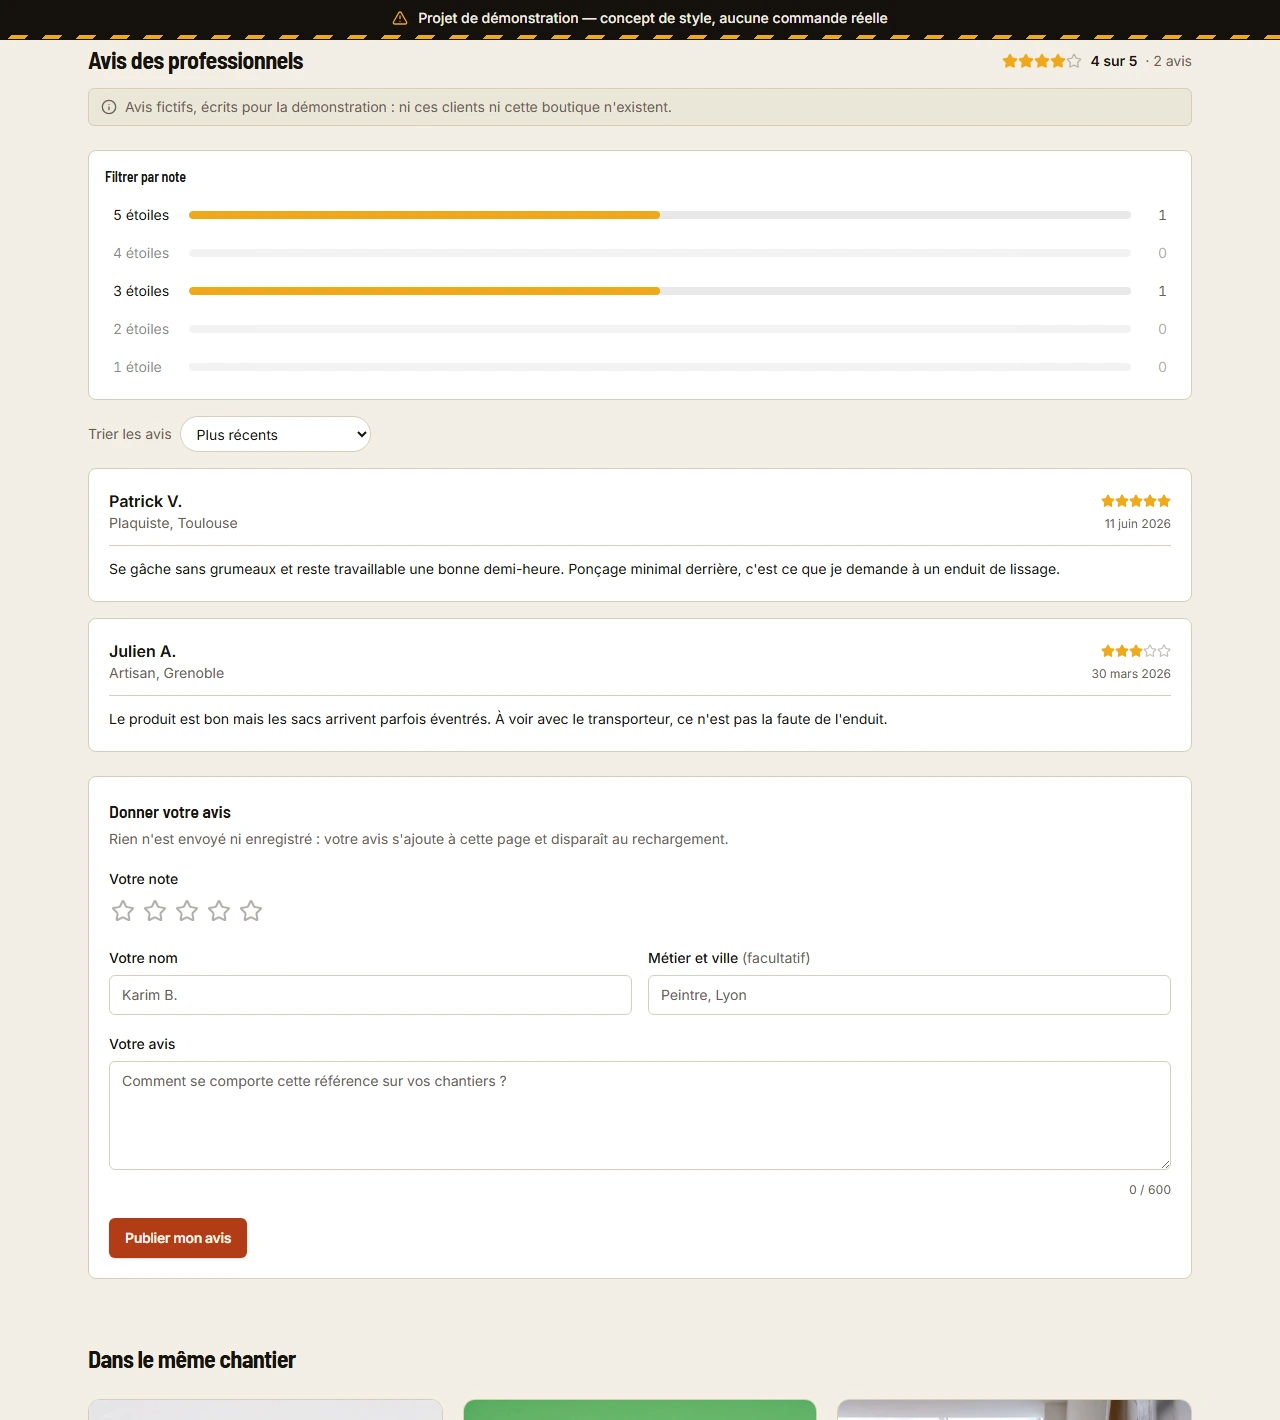
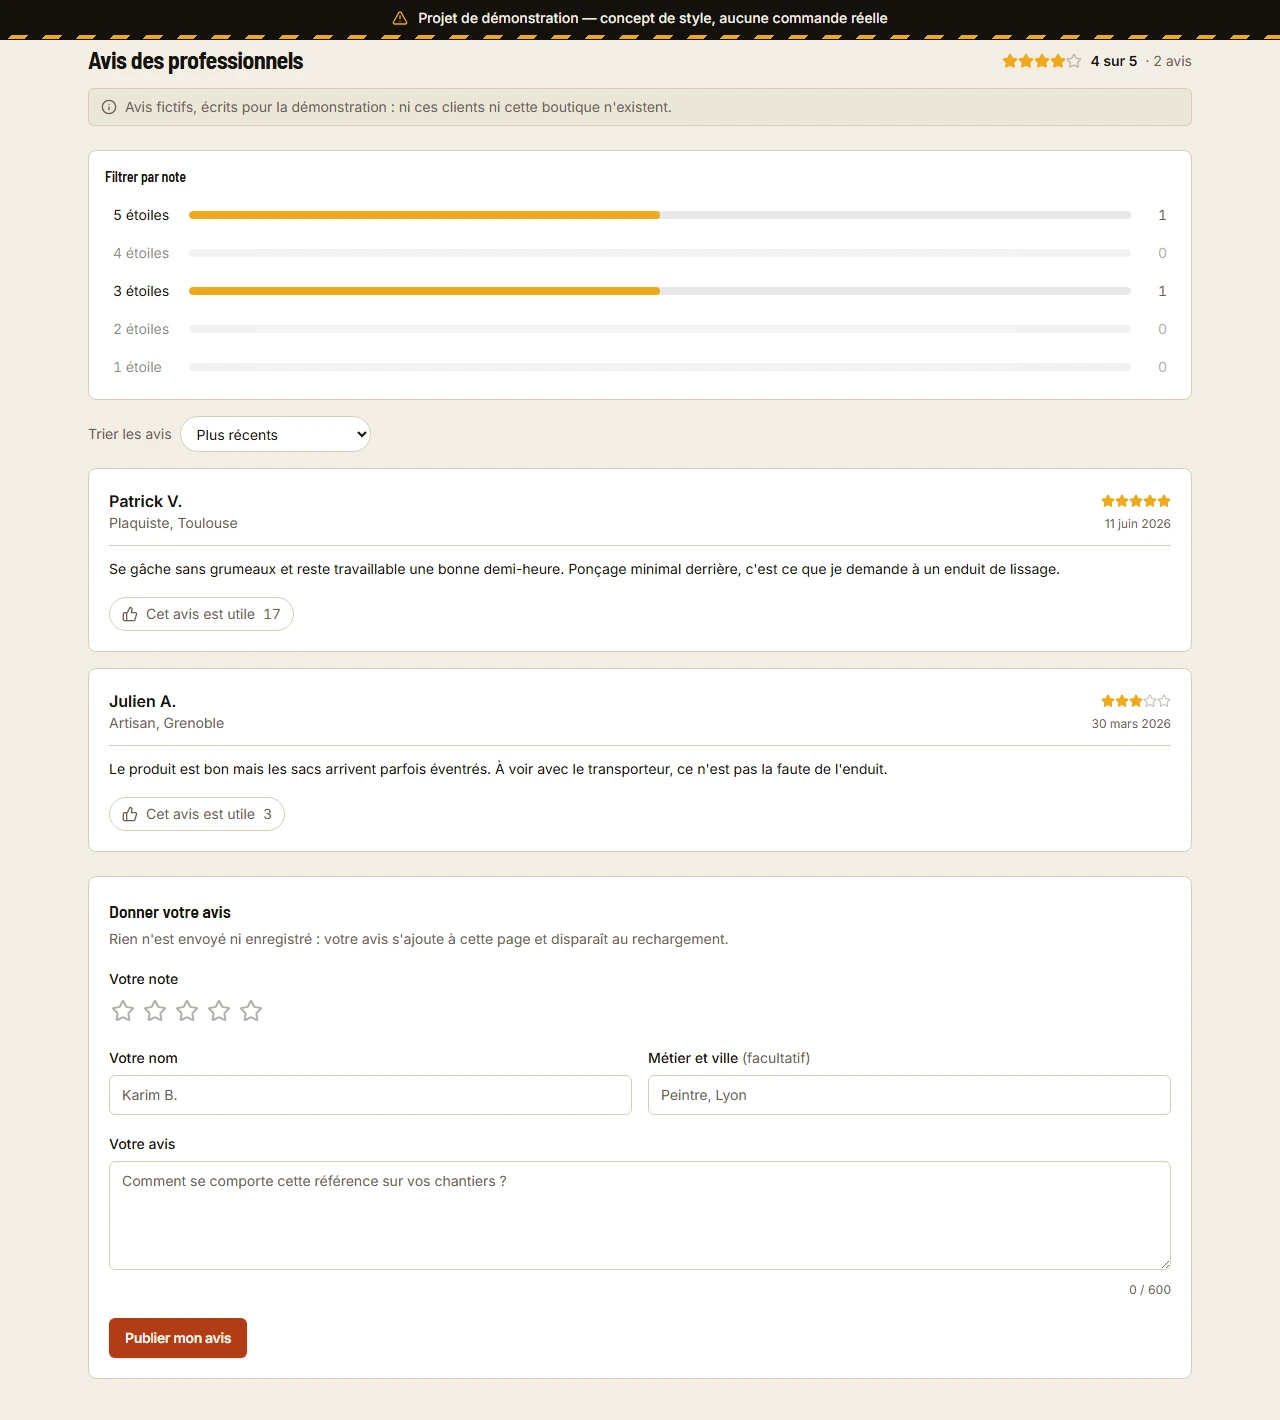
Ajoute un bouton d'utilité sur chaque avis
Chaque avis porte un « Cet avis est utile » avec son compteur. Le vote bascule
au second clic et incrémente le compteur affiché, en signalant « Compté
seulement ici » : rien n'est envoyé, comme le reste de la maquette. Les
compteurs de départ font partie des données fictives ; un avis déposé depuis la
page démarre à zéro.

L'état des votes est un Set d'identifiants dans la section, au même titre que
le tri et le filtre : local, non partagé, remis à zéro d'une fiche à l'autre.

Vérifié : compteur incrémenté puis rendu à sa valeur d'origine à l'annulation,
aria-pressed suivant l'état, et avis déposé démarrant bien à zéro.

diff --git a/src/data/avis.ts b/src/data/avis.ts
@@ -14,6 +14,8 @@ export type Avis = {
   /** Format ISO, affiché en toutes lettres. */
   date: string
   texte: string
+  /** Nombre de personnes ayant trouvé l'avis utile. Fictif lui aussi. */
+  utiles: number
   /** Déposé depuis la page, jamais enregistré : signalé comme tel à l'écran. */
   local?: boolean
 }
@@ -28,6 +30,7 @@ export const avis: Avis[] = [
     date: "2026-07-14",
     texte:
       "La fibre courte tient bien la laque, pas de peluche sur les portes. J'en prends dix à chaque commande, à ce prix-là je ne les lave même plus entre deux chantiers.",
+    utiles: 14,
   },
   {
     id: "av-2",
@@ -38,6 +41,7 @@ export const avis: Avis[] = [
     date: "2026-06-28",
     texte:
       "Bon rendu sur boiseries, rien à dire. Le manche plie un peu quand on appuie fort sur un plafond, mais pour du laquage c'est parfait.",
+    utiles: 6,
   },
   {
     id: "av-3",
@@ -48,6 +52,7 @@ export const avis: Avis[] = [
     date: "2026-05-09",
     texte:
       "Commandé par cinquante pour l'équipe. Qualité constante d'un lot à l'autre, ce qui n'est pas le cas partout.",
+    utiles: 9,
   },
   {
     id: "av-4",
@@ -58,6 +63,7 @@ export const avis: Avis[] = [
     date: "2026-07-02",
     texte:
       "Soie bien garnie, la coupe reste nette après une dizaine de chantiers. Il perd deux ou trois poils les premiers jours, ensuite plus rien.",
+    utiles: 11,
   },
   {
     id: "av-5",
@@ -68,6 +74,7 @@ export const avis: Avis[] = [
     date: "2026-04-21",
     texte:
       "Parfait pour les angles et les plinthes. Se nettoie facilement à l'eau tant qu'on ne le laisse pas sécher.",
+    utiles: 4,
   },
   {
     id: "av-6",
@@ -78,6 +85,7 @@ export const avis: Avis[] = [
     date: "2026-06-11",
     texte:
       "Se gâche sans grumeaux et reste travaillable une bonne demi-heure. Ponçage minimal derrière, c'est ce que je demande à un enduit de lissage.",
+    utiles: 17,
   },
   {
     id: "av-7",
@@ -88,6 +96,7 @@ export const avis: Avis[] = [
     date: "2026-03-30",
     texte:
       "Le produit est bon mais les sacs arrivent parfois éventrés. À voir avec le transporteur, ce n'est pas la faute de l'enduit.",
+    utiles: 3,
   },
   {
     id: "av-8",
@@ -98,6 +107,7 @@ export const avis: Avis[] = [
     date: "2026-07-19",
     texte:
       "Arêtes franches sur laque comme sur mat, et il se retire sans arracher, même après deux jours en place. Je ne reviens pas au ruban de grande surface.",
+    utiles: 21,
   },
   {
     id: "av-9",
@@ -108,6 +118,7 @@ export const avis: Avis[] = [
     date: "2026-05-25",
     texte:
       "Bonne tenue sur support propre. Sur crépi il faut appuyer davantage, mais c'est vrai de tous les rubans.",
+    utiles: 5,
   },
 ]
 

diff --git a/src/components/sections/AvisClients.tsx b/src/components/sections/AvisClients.tsx
@@ -1,5 +1,5 @@
 import * as React from "react"
-import { Info, MessageSquareOff } from "lucide-react"
+import { Info, MessageSquareOff, ThumbsUp } from "lucide-react"
 
 import { Etoiles } from "@/components/Etoiles"
 import { Separator } from "@/components/ui/separator"
@@ -50,6 +50,16 @@ export function AvisClients({
   const [tri, setTri] = React.useState<TriAvis>("recent")
   /** Note sélectionnée dans l'histogramme, `null` quand tout est affiché. */
   const [filtreNote, setFiltreNote] = React.useState<number | null>(null)
+  /** Avis que le visiteur a marqués utiles. Rien n'est envoyé, comme le reste. */
+  const [votes, setVotes] = React.useState<ReadonlySet<string>>(new Set())
+
+  function basculerVote(id: string) {
+    setVotes((actuels) => {
+      const suivants = new Set(actuels)
+      if (!suivants.delete(id)) suivants.add(id)
+      return suivants
+    })
+  }
 
   // De 5 à 1 : c'est l'ordre attendu d'un histogramme d'avis.
   const distribution = [5, 4, 3, 2, 1].map((note) => ({
@@ -207,6 +217,37 @@ export function AvisClients({
               </div>
               <Separator className="my-3" />
               <p className="text-sm leading-relaxed">{avis.texte}</p>
+
+              <div className="mt-4 flex items-center gap-3">
+                <button
+                  type="button"
+                  onClick={() => basculerVote(avis.id)}
+                  aria-pressed={votes.has(avis.id)}
+                  className={cn(
+                    "inline-flex items-center gap-2 rounded-full border px-3 py-1.5 text-sm transition-colors focus-visible:outline-none focus-visible:ring-2 focus-visible:ring-ring focus-visible:ring-offset-2 focus-visible:ring-offset-card",
+                    votes.has(avis.id)
+                      ? "border-primary bg-primary/10 text-primary"
+                      : "border-border text-muted-foreground hover:border-primary hover:text-primary",
+                  )}
+                >
+                  <ThumbsUp
+                    className={cn(
+                      "size-4",
+                      votes.has(avis.id) && "fill-primary/20",
+                    )}
+                    aria-hidden="true"
+                  />
+                  {votes.has(avis.id) ? "Avis utile" : "Cet avis est utile"}
+                  <span className="tabular-nums">
+                    {avis.utiles + (votes.has(avis.id) ? 1 : 0)}
+                  </span>
+                </button>
+                {votes.has(avis.id) && (
+                  <span className="text-xs text-muted-foreground">
+                    Compté seulement ici
+                  </span>
+                )}
+              </div>
             </li>
           ))}
         </ul>

diff --git a/src/components/sections/FormulaireAvis.tsx b/src/components/sections/FormulaireAvis.tsx
@@ -65,6 +65,7 @@ export function FormulaireAvis({
       note,
       date: new Date().toISOString().slice(0, 10),
       texte: texte.trim(),
+      utiles: 0,
       local: true,
     })
 

diff --git a/README.md b/README.md
@@ -27,9 +27,10 @@ La fiche produit, atteinte en cliquant une carte. Elle décline le prix unitaire
 
 ![Section avis : moyenne en étoiles, mention d'avis fictifs, sélecteur de tri, deux avis et le formulaire de dépôt](docs/captures/09-avis.webp)
 
-Les avis, en bas de fiche : histogramme des notes qui sert de filtre, tri, liste
-et formulaire. La mention d'avis fictifs est en clair au-dessus, et le
-formulaire annonce avant la saisie que rien n'est envoyé.
+Les avis, en bas de fiche : histogramme des notes qui sert de filtre, tri,
+liste avec bouton d'utilité, et formulaire de dépôt. La mention d'avis fictifs
+est en clair au-dessus, et le formulaire annonce avant la saisie que rien n'est
+envoyé.
 
 ![Panneau panier ouvert : deux lignes avec photo et sélecteur de quantité, jauge vers le palier suivant, remise artisan appliquée au total](docs/captures/05-panier.webp)
 
@@ -136,6 +137,11 @@ le formulaire annonce avant la saisie.
 Les avis déposés vivent dans `PageProduit` et non dans la section, pour que le
 résumé sous le titre et la liste ne puissent pas afficher deux chiffres
 différents. Une clé sur la fiche les remet à zéro d'un produit à l'autre.
+
+Chaque avis porte un bouton « Cet avis est utile » avec son compteur. Le vote
+bascule au second clic, incrémente le compteur affiché et signale « Compté
+seulement ici » — rien n'est envoyé, comme le reste de la maquette. Un avis
+déposé depuis la page démarre à zéro.
 
 Un histogramme des notes sert aussi de filtre : chaque barre montre combien
 d'avis portent cette note et s'active au clic, un second clic la désactivant —
